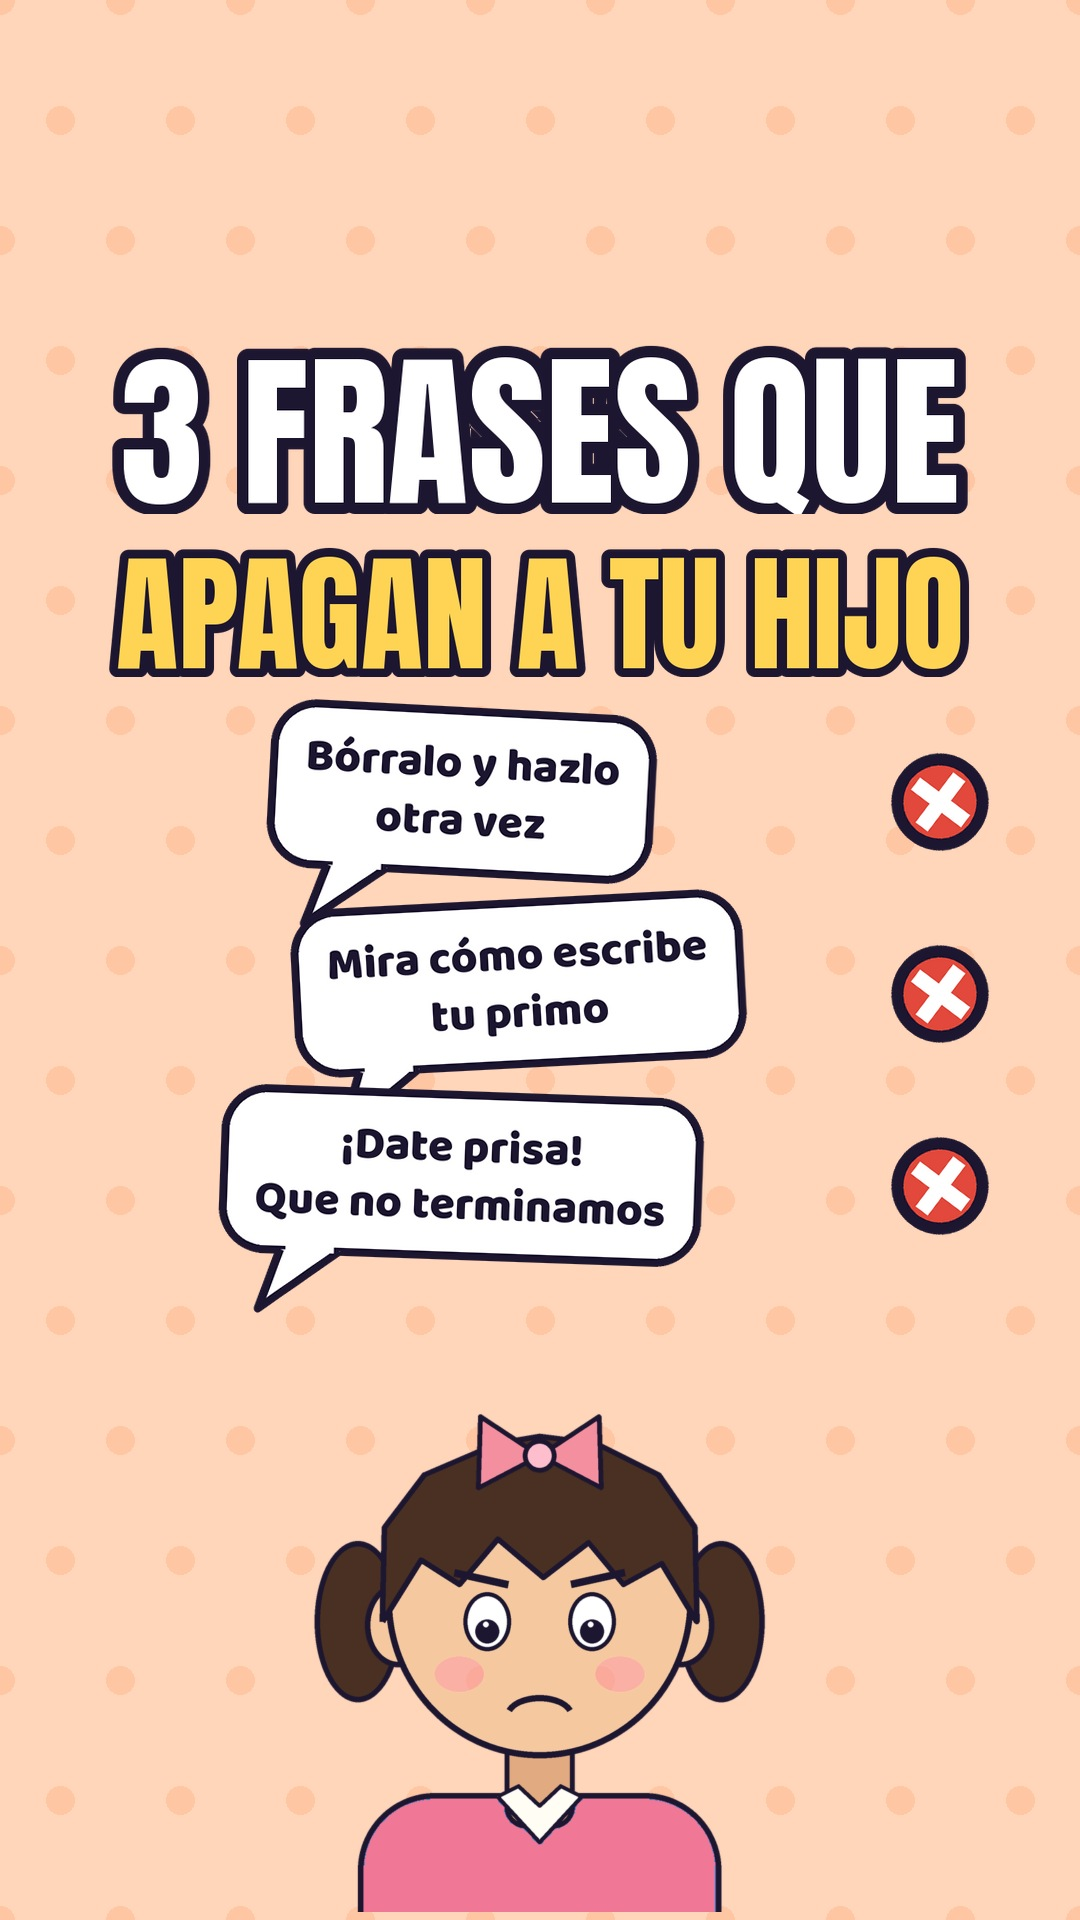
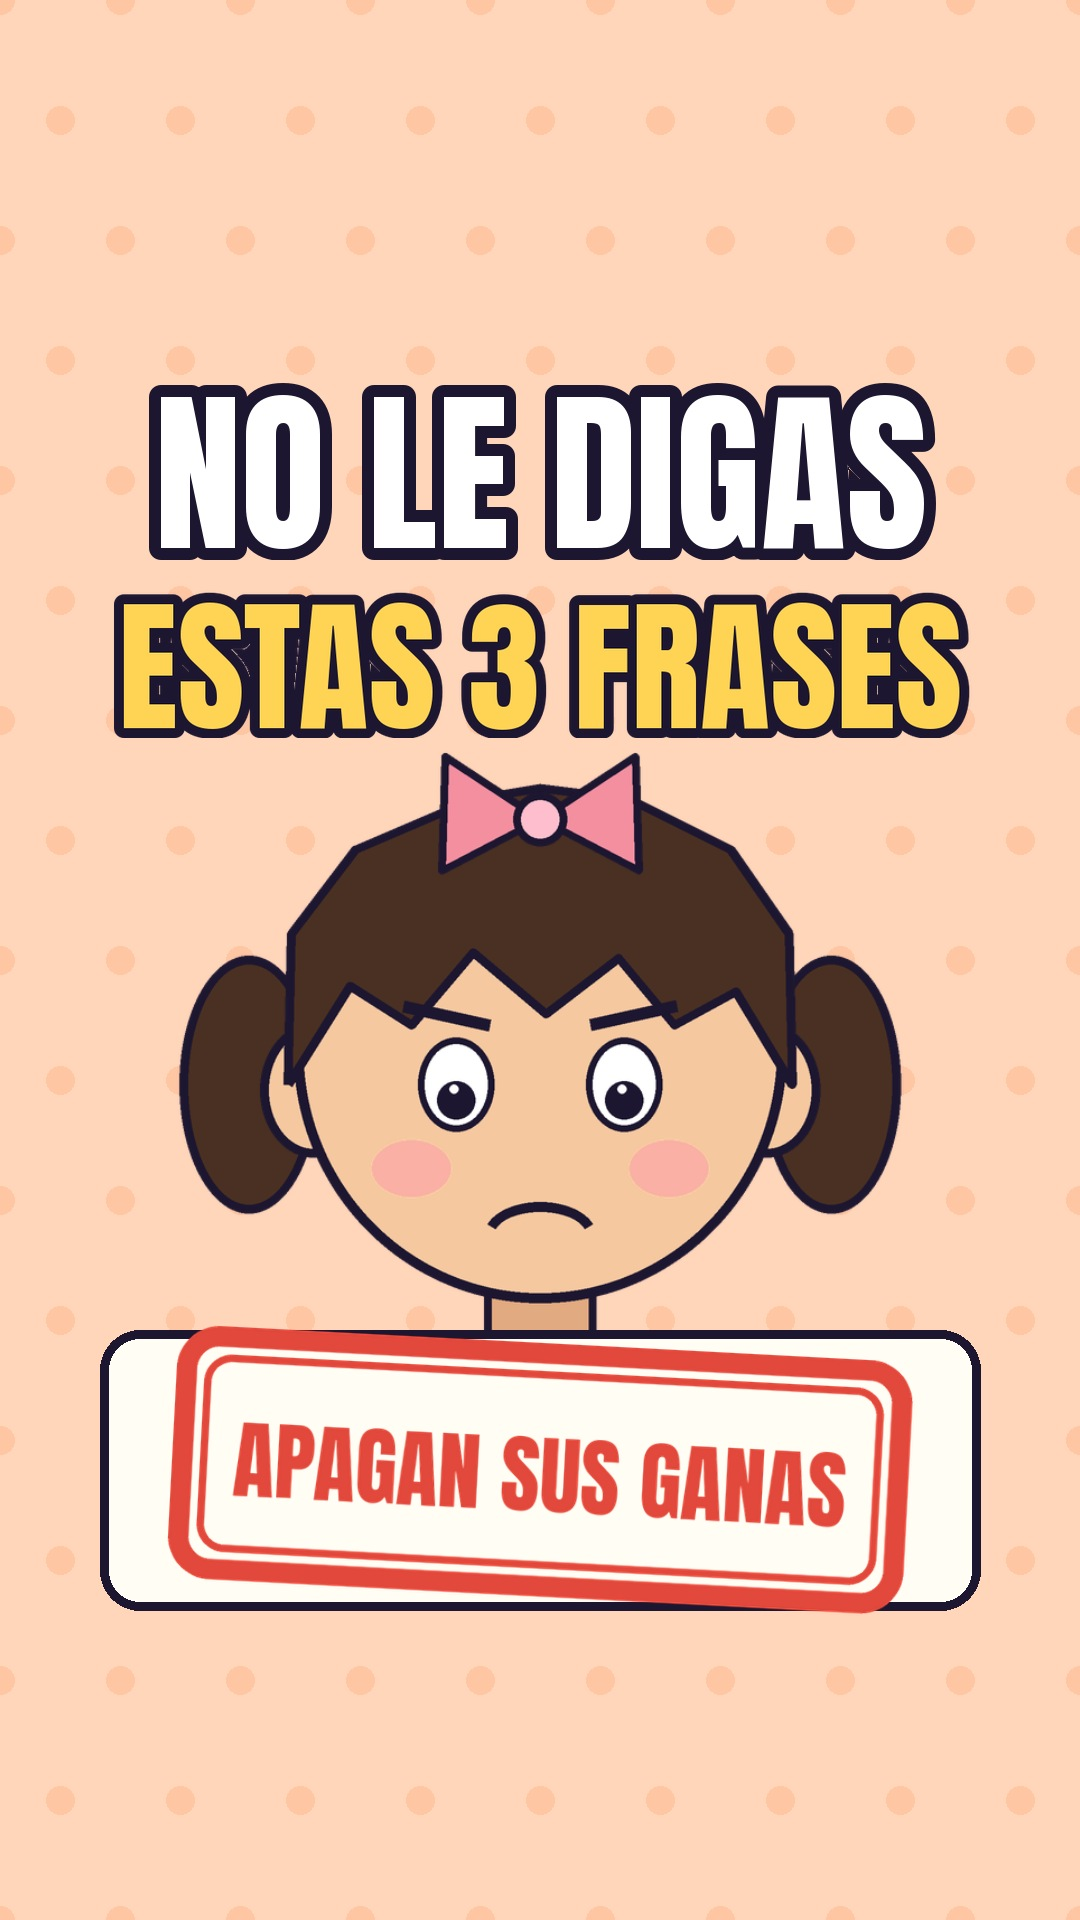
Portada tip frases: version limpia
Claude-Session: https://claude.ai/code/session_01NdJoAqo2otMfzihjsbxQNW

diff --git a/pinti-tips/frases/portada.py b/pinti-tips/frases/portada.py
@@ -1,4 +1,4 @@
-"""Portada 9:16 del tip de las 3 frases (inspirada en la del zurdo, composición propia). Zona central 3:4 (x 90-990, y 300-1620)."""
+"""Portada 9:16 limpia del tip de las 3 frases (misma limpieza que la del zurdo, colores y composición propios). Zona central 3:4 (x 90-990, y 300-1620)."""
 import os
 from PIL import Image, ImageDraw
 import art as A
@@ -10,11 +10,9 @@ def fit(txt, size, col, maxw=880):
     return im
 
 b = Image.new("RGB", (R.W, R.H)); R.bg(b, "durazno", 0)
-R.put(b, fit("3 FRASES QUE", 175, (255, 255, 255)), 540, 400, 1, 0)
-R.put(b, fit("APAGAN A TU HIJO", 175, A.AMA), 540, 590, 1, 0)
-for i, (txt, x, rot) in enumerate((("Bórralo y hazlo\notra vez", 460, -3), ("Mira cómo escribe\ntu primo", 520, 3), ("¡Date prisa!\nQue no terminamos", 460, -2))):
-    y = 822 + i * 192
-    R.put(b, A.globo(txt, 46, (255, 255, 255), "left"), x, y, 1, rot)
-    R.put(b, A.xmark(110), 940, y - 20, 1, 8)
-R.put(b, A.nina("triste"), 540, 1625, .7, 0)
+R.put(b, A.nina("triste"), 540, 1090, 1.12, 0)
+R.put(b, fit("NO LE DIGAS", 175, (255, 255, 255)), 540, 440, 1, 0)
+R.put(b, fit("ESTAS 3 FRASES", 175, A.AMA), 540, 640, 1, 0)
+ImageDraw.Draw(b).rounded_rectangle((100, 1330, 980, 1610), 40, fill=A.CREMA, outline=A.OL, width=9)
+R.put(b, A.sello("APAGAN SUS GANAS", 820, 300, A.ROJO, 92), 540, 1470, .93, -3)
 b.save(os.path.join(R.HERE, "portada_tip_frases_9x16.jpg"), quality=93)
